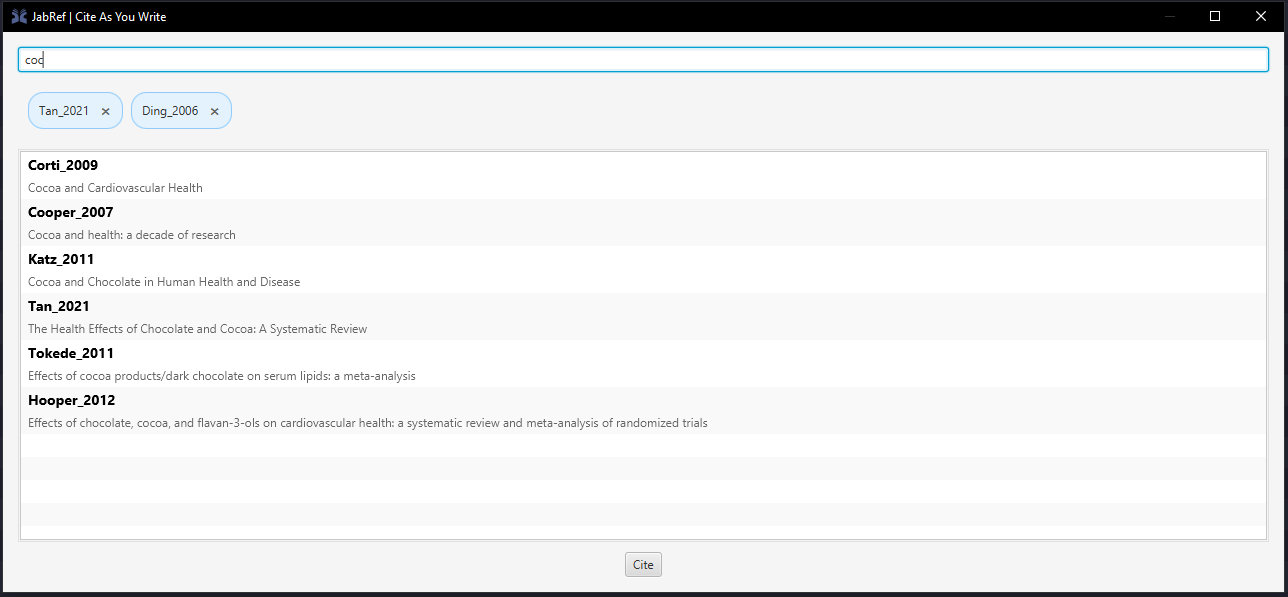
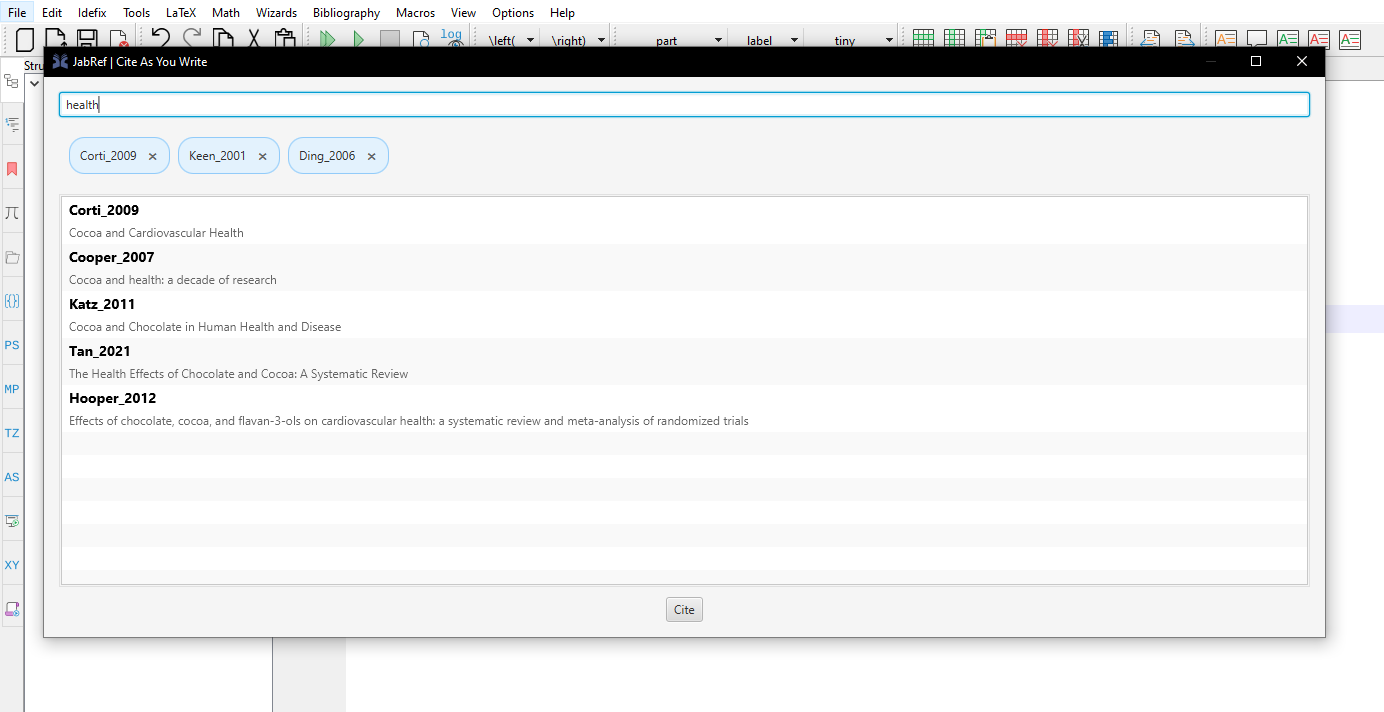
add new pictures

Changed region(s): [[0.0, 0.0, 1.0, 1.0]]

diff --git a/_posts/2025-07-25-cayw-endpoint.md b/_posts/2025-07-25-cayw-endpoint.md
@@ -29,13 +29,16 @@ var url = "http://localhost:23119/better-bibtex/cayw??format=biblatex&texstudio=
 system("curl -sS '" + url + "'")
 ```
 
-![cayw-texstudio.png](../img/cayw-texstudio.png)
+![cayw-texstudio.png](../img/cayw-texstudio-macro.png)
 
 After that, you can save the macro and close the dialog by clicking `Ok`.
 
 Now you can use the macro by typing "aaa" and the search dialog opens up and you can then search for entries and select them.
 
+![cayw-texstudio.png](../img/cayw-texstudio.png)
 ![cayw-search.png](../img/cayw-search.png)
+![cayw-texstudio2.png](../img/cayw-texstudio2.png)
+
 
 ## Are you curious?
 
